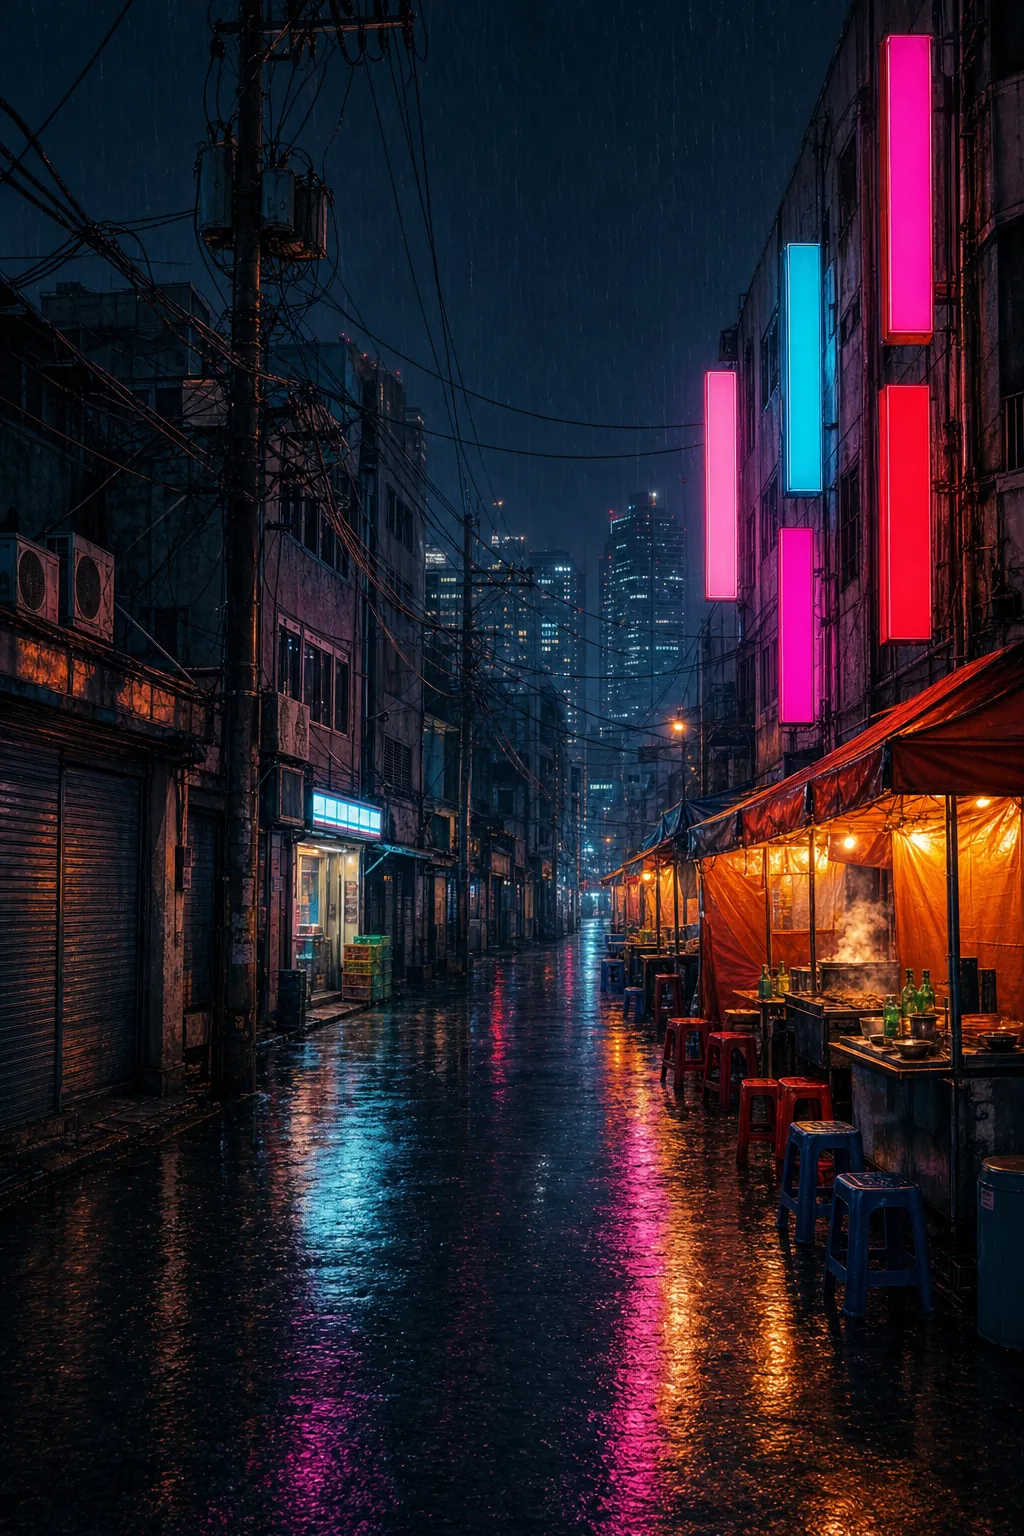
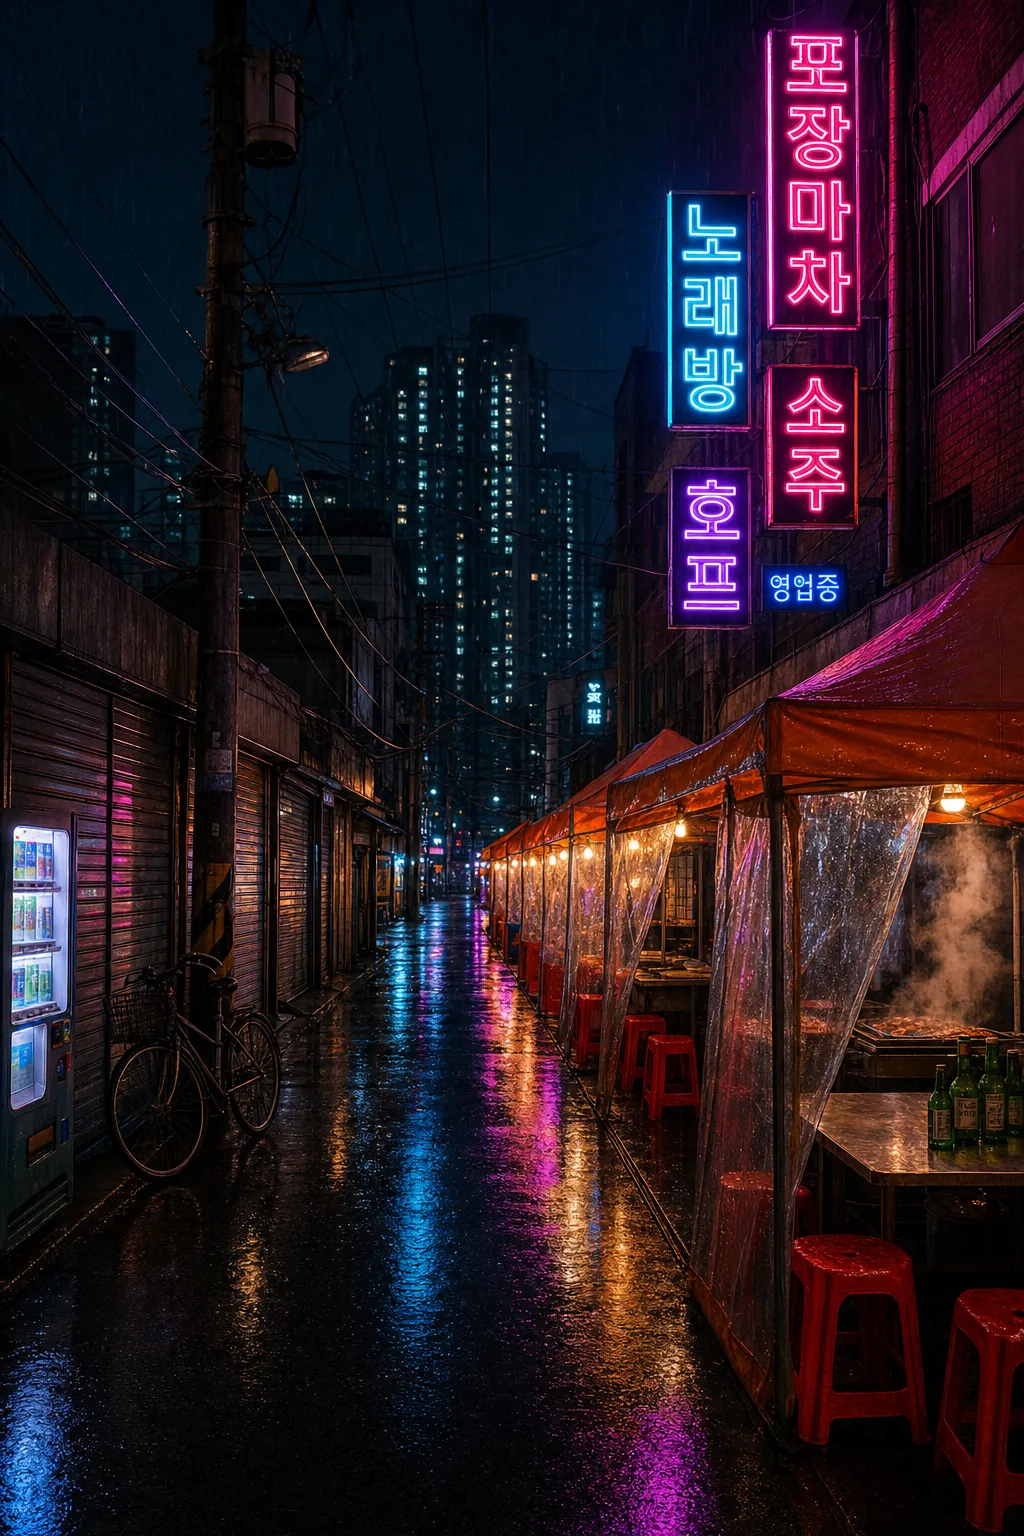
feat: Night Rain uses scene A with its neon Hangul painted into the plates

diff --git a/src/scenes/night-rain.ts b/src/scenes/night-rain.ts
@@ -2,7 +2,7 @@
 // painted plate drawn once per size; a passer-by under a clear umbrella walks
 // away down it from a four-frame strip, lit by the lanterns he passes. The
 // shader adds the rain, ripples, splashes, the shimmer of the wet street, his
-// reflection, haze, steam and drips, and a sign that buzzes while Wink works.
+// reflection, haze, steam and drips, and signs that buzz while Wink works.
 import { flowScene } from "./flow";
 import tallUrl from "./plates/night-rain-alley-tall.webp";
 import wideUrl from "./plates/night-rain-alley-wide.webp";
@@ -10,43 +10,28 @@ import walkUrl from "./plates/night-rain-walk.webp";
 
 const PERIOD = 60;
 
-// Each alley plate in its own pixels: size, the street's vanishing point and depth scale (fractions), where on screen the vanishing point goes, where its floor meets the walls at the bottom edge, a sign that buzzes, a vent that steams, how far right of the street's middle he walks (m), and plate px rects put out (a sign moved off them).
+// Each alley plate in its own pixels: size, the street's vanishing point and depth scale (fractions), where on screen the vanishing point goes, where its floor meets the walls at the bottom edge, a vent that steams, how far right of the street's middle he walks (m; wide keeps him clear of the man painted in its middle), and plate px rects put out.
 const ALLEYS = {
-  wide: { w: 1536, h: 1024, vp: [0.513, 0.561], k: 0.2, aim: 0.52, floor: [-0.06, 0.85], sign: [0.758, 0.027, 0.806, 0.317], vent: [0.869, 0.64], side: 0.6, dark: [] },
-  tall: { w: 1024, h: 1536, vp: [0.576, 0.586], k: 0.2, aim: 0.41, floor: [-1.0, 0.9], sign: [0.859, 0.251, 0.909, 0.417], vent: [0.825, 0.624], side: 0.2, dark: [] },
+  wide: { w: 1536, h: 1024, vp: [0.384, 0.576], k: 0.2, aim: 0.384, floor: [-0.23, 0.8], vent: [0.82, 0.68], side: 1.6, dark: [] },
+  tall: { w: 1024, h: 1536, vp: [0.439, 0.579], k: 0.2, aim: 0.25, floor: [-0.28, 0.85], vent: [0.923, 0.658], side: 0.3, dark: [] },
 };
-type Sign = [number, number, number, number, string, string, string, number];
-// The plates' signs are blank panels, so each is repainted as a lit box with a real word: its rect in plate px, its glow, its core, the word top to bottom, and how hot it burns.
+// The lit neon signs painted into each plate, in plate px: each buzzes on its own clock while Wink works, and keeps some light under the chat column.
 const SIGNS = {
   wide: [
-    [1164, 28, 1237, 325, "#ff4fb8", "#ffe0f2", "포장마차", 1],
-    [1064, 142, 1114, 381, "#2fd3ff", "#d8f8ff", "노래방", 1],
-    [997, 259, 1032, 432, "#f25ae6", "#ffe3fb", "소주", 1],
-    [954, 334, 985, 464, "#b36eff", "#efe3ff", "호프", 1],
-    [905, 404, 925, 496, "#2fd3ff", "#d8f8ff", "영업중", 1],
+    [957, 20, 1032, 300],
+    [859, 150, 922, 328],
+    [717, 321, 762, 421],
+    [880, 342, 930, 442],
+    [711, 449, 756, 478],
   ],
   tall: [
-    [886, 35, 931, 336, "#ff2fa8", "#ffe0f2", "포장마차", 1],
-    [784, 243, 822, 490, "#2fd3ff", "#d8f8ff", "노래방", 1],
-    [705, 371, 737, 599, "#ff70b8", "#ffe6f3", "소주", 1],
-    [778, 528, 815, 721, "#ff2fc0", "#ffe0f6", "치킨", 1],
-    [880, 385, 931, 640, "#ff3048", "#ffe4e8", "영업중", 1],
+    [768, 28, 859, 330],
+    [667, 191, 751, 430],
+    [765, 364, 858, 528],
+    [667, 466, 751, 628],
+    [761, 563, 848, 611],
   ],
-} satisfies Record<"wide" | "tall", Sign[]>;
-const KO = (px: number) => `700 ${px}px "Malgun Gothic", "Apple SD Gothic Neo", "Noto Sans KR", "Noto Sans CJK KR", sans-serif`;
-// Without a Korean font the words would draw as empty boxes: the plate keeps its own signs then.
-function hasKorean() {
-  const c = document.createElement("canvas");
-  c.width = c.height = 24;
-  const s = c.getContext("2d", { willReadFrequently: true })!;
-  s.font = KO(20);
-  const ink = (ch: string) => {
-    s.clearRect(0, 0, 24, 24);
-    s.fillText(ch, 2, 20);
-    return s.getImageData(0, 0, 24, 24).data.join();
-  };
-  return ink("한") !== ink(String.fromCodePoint(0x10fffd));
-}
+} satisfies Record<"wide" | "tall", number[][]>;
 
 // One cell of the walk strip in its own pixels: size, his heel line, his centre, and his umbrella's rim ends, where drips fall from.
 const WALK = { w: 440, h: 772, heel: 765, cx: 190, rim: [[12, 130], [368, 135]] };
@@ -59,8 +44,8 @@ const decode = (url: string) =>
     .catch(() => null);
 const [wide, tall, walk] = "WebGLRenderingContext" in globalThis ? await Promise.all([wideUrl, tallUrl, walkUrl].map(decode)) : [null, null, null];
 
-// Whether a screen px is on one of the plate's sign panels.
-const lit = (k: "wide" | "tall") => SIGNS[k].map(([x0, y0, x1, y1]) => `inBox(s, px, vec4(${[x0 / ALLEYS[k].w, y0 / ALLEYS[k].h, x1 / ALLEYS[k].w, y1 / ALLEYS[k].h].map((v) => v.toFixed(4)).join(", ")}))`).join(" + ");
+// A GLSL sum over the plate's signs, each given its rect in plate fractions and its index.
+const each = (k: "wide" | "tall", f: (r: string, i: number) => string) => SIGNS[k].map(([x0, y0, x1, y1], i) => f(`vec4(${[x0 / ALLEYS[k].w, y0 / ALLEYS[k].h, x1 / ALLEYS[k].w, y1 / ALLEYS[k].h].map((v) => v.toFixed(4)).join(", ")})`, i)).join(" + ");
 const pick = (vec: string, f: (p: (typeof ALLEYS)["wide"]) => number[]) => `s.x < s.y ? ${vec}(${f(ALLEYS.tall).join(", ")}) : ${vec}(${f(ALLEYS.wide).join(", ")})`;
 
 // Shared with the shader: the plate's cover fit, anchored on its bottom right.
@@ -69,7 +54,6 @@ vec2 plateSize(vec2 s) { return ${pick("vec2", (p) => [p.w, p.h])}; }
 vec3 plateVp(vec2 s) { return ${pick("vec3", (p) => [...p.vp, p.k])}; }
 float plateAim(vec2 s) { return s.x < s.y ? ${ALLEYS.tall.aim} : ${ALLEYS.wide.aim}; }
 vec2 plateFloor(vec2 s) { return ${pick("vec2", (p) => p.floor)}; }
-vec4 plateSign(vec2 s) { return ${pick("vec4", (p) => p.sign)}; }
 vec2 plateVent(vec2 s) { return ${pick("vec2", (p) => p.vent)}; }
 // Covering the screen, scaled up if need be so the vanishing point lands on its aim: scale, then the plate's top left.
 vec3 fit(vec2 s) {
@@ -80,7 +64,15 @@ vec3 fit(vec2 s) {
 }
 vec2 onPlate(vec2 s, vec2 f) { vec3 k = fit(s); return k.yz + f * plateSize(s) * k.x; }
 float inBox(vec2 s, vec2 px, vec4 r) { vec2 a = onPlate(s, r.xy), b = onPlate(s, r.zw); return step(a.x, px.x) * step(px.x, b.x) * step(a.y, px.y) * step(px.y, b.y); }
-float plateLit(vec2 s, vec2 px) { return s.x < s.y ? ${lit("tall")} : ${lit("wide")}; }
+float inCol(vec2 s, vec2 px, vec4 r) { vec2 a = onPlate(s, r.xy), b = onPlate(s, r.zw); return step(a.x - 12.0, px.x) * step(px.x, b.x + 12.0); }
+float plateLit(vec2 s, vec2 px) { return s.x < s.y ? ${each("tall", (r) => `inBox(s, px, ${r})`)} : ${each("wide", (r) => `inBox(s, px, ${r})`)}; }
+// Two quick drops every few seconds, then a dim stutter.
+float buzz(float t) { float b = mod(t, 6.0); return step(1.0, b) * step(b, 1.12) + step(1.25, b) * step(b, 1.32) + step(1.5, b) * step(b, 1.9) * 0.5; }
+// How much of a sign is out at px, each on its own clock: its glass, and its streak on the wet street below the horizon vy.
+float plateBuzz(vec2 s, vec2 px, float t, float vy) {
+  float st = step(vy, px.y);
+  return s.x < s.y ? ${each("tall", (r, i) => `buzz(t + ${(i * 2.3).toFixed(1)}) * (inBox(s, px, ${r}) + 0.6 * st * inCol(s, px, ${r}))`)} : ${each("wide", (r, i) => `buzz(t + ${(i * 2.3).toFixed(1)}) * (inBox(s, px, ${r}) + 0.6 * st * inCol(s, px, ${r}))`)};
+}
 // Three walks away down the street a loop, from the right edge into the haze: his heels, his height to the umbrella's tip (2.05 m, so 0.78 of it is the 1.6 m eye line), and what the haze leaves of him.
 vec4 walker(vec2 s, vec2 vp, float t) {
   float p = fract(t * 3.0 / ${PERIOD}.0 + 0.17);
@@ -110,64 +102,6 @@ function paint(g: Ctx, w: number, h: number) {
       g.shadowBlur = 30 * c;
       g.globalAlpha = 0.9;
       g.fillRect(ox + x0 * c, oy + y0 * c, (x1 - x0) * c, (y1 - y0) * c);
-      g.restore();
-    }
-    if (hasKorean()) {
-      // Drawn on their own sheet and softened onto the plate, so they sit in its paint rather than on it.
-      const sheet = document.createElement("canvas");
-      sheet.width = g.canvas.width;
-      sheet.height = g.canvas.height;
-      const dpr = g.canvas.width / w;
-      const s = sheet.getContext("2d")!;
-      s.setTransform(dpr, 0, 0, dpr, 0, 0);
-      for (const [x0, y0, x1, y1, glow, core, word, hot] of SIGNS[w < h ? "tall" : "wide"]) {
-        const x = ox + x0 * c;
-        const y = oy + y0 * c;
-        const bw = (x1 - x0) * c;
-        const bh = (y1 - y0) * c;
-        // Its light on the wall around it.
-        g.save();
-        g.globalCompositeOperation = "lighter";
-        g.globalAlpha = 0.3 * hot;
-        g.shadowColor = glow;
-        g.shadowBlur = 60 * c;
-        g.fillStyle = glow;
-        g.fillRect(x, y, bw, bh);
-        g.restore();
-        s.save();
-        // Dark glass, washed by its own tubes.
-        s.fillStyle = "#08050d";
-        s.fillRect(x, y, bw, bh);
-        s.globalAlpha = 0.16 * hot;
-        s.fillStyle = glow;
-        s.fillRect(x, y, bw, bh);
-        s.globalAlpha = 0.3 + 0.7 * hot;
-        s.shadowColor = glow;
-        for (const [lw, blur, color] of [[2.6, 16, glow], [1, 4, core]] as const) {
-          s.strokeStyle = color;
-          s.lineWidth = lw * c;
-          s.shadowBlur = blur * c;
-          s.strokeRect(x + 3 * c, y + 3 * c, bw - 6 * c, bh - 6 * c);
-        }
-        const chars = [...word];
-        const size = Math.min(bw * 0.7, (bh * 0.84) / chars.length);
-        s.font = KO(size);
-        s.textAlign = "center";
-        s.textBaseline = "middle";
-        chars.forEach((ch, i) => {
-          const cy = y + bh / 2 + (i - (chars.length - 1) / 2) * size * 1.06;
-          for (const [blur, color] of [[24, glow], [8, glow], [2, glow]] as const) {
-            s.fillStyle = color;
-            s.shadowBlur = blur * c;
-            s.fillText(ch, x + bw / 2, cy);
-          }
-        });
-        s.restore();
-      }
-      g.save();
-      g.setTransform(1, 0, 0, 1, 0, 0);
-      g.filter = `blur(${0.4 * dpr}px)`;
-      g.drawImage(sheet, 0, 0);
       g.restore();
     }
   }
@@ -317,14 +251,9 @@ void main() {
   // The chat column, easing out at its edges so the dim leaves no seam.
   float lx = px.x - uLaneX + uLaneW;
   float lane = smoothstep(-100.0, 40.0, lx) * (1.0 - smoothstep(2.0 * uLaneW - 150.0, 2.0 * uLaneW - 40.0, lx));
-  // The sign buzzes: two quick drops every few seconds while Wink works.
-  vec4 ps = plateSign(uSize);
-  vec2 s0 = onPlate(uSize, ps.xy), s1 = onPlate(uSize, ps.zw);
-  float bz = mod(t, 6.0);
-  float off = (step(1.0, bz) * step(bz, 1.12) + step(1.25, bz) * step(bz, 1.32) + step(1.5, bz) * step(bz, 1.9) * 0.5) * uFlow;
-  float inSign = step(s0.x, px.x) * step(px.x, s1.x) * step(s0.y, px.y) * step(px.y, s1.y);
-  float inRefl = step(s0.x - 12.0, px.x) * step(px.x, s1.x + 12.0) * step(vp.y, px.y);
-  col *= 1.0 - 0.6 * off * (inSign + 0.6 * inRefl) * smoothstep(0.2, 0.6, dot(col, vec3(0.33)));
+  // The signs buzz while Wink works; their streaks overlap on the street, so the sum is held to 1.
+  float off = min(plateBuzz(uSize, px, t, vp.y), 1.0) * uFlow;
+  col *= 1.0 - 0.6 * off * smoothstep(0.2, 0.6, dot(col, vec3(0.33)));
   // Drifting haze, thicker toward the far end.
   float fogN = n2(vec2((px.x + t * uSize.y * 0.4 * 8.0 / ${PERIOD}.0) / (uSize.y * 0.4), px.y / (uSize.y * 0.18)), 8.0);
   float deep = exp(-length((px - vp) * vec2(0.7, 1.4)) / (uSize.y * 0.3));

diff --git a/src/scenes/night-rain.test.ts b/src/scenes/night-rain.test.ts
@@ -56,10 +56,8 @@ describe("night rain", () => {
     expect(frag().match(/\bstruct\b/g) ?? [], "WebGL 1 refuses ternaries and == on structs: pass vectors").toEqual([]);
   });
 
-  it("writes every sign in Hangul", () => {
-    const words = [...source.matchAll(/"#\w{6}", "#\w{6}", "([^"]+)"/g)].map((m) => m[1]);
-    expect(words.length).toBeGreaterThan(0);
-    expect(words.filter((w) => !/^[\uac00-\ud7a3]+$/.test(w)), "the sign font and its check are Korean: other script draws as empty boxes").toEqual([]);
+  it("draws no lettering over the plates", () => {
+    expect(source.match(/\b(fillText|strokeText)\(/g) ?? [], "the signs are painted into the plates: words drawn on top read as pasted on").toEqual([]);
   });
 
   it("clamps the sign light, a sum over overlapping panels", () => {
